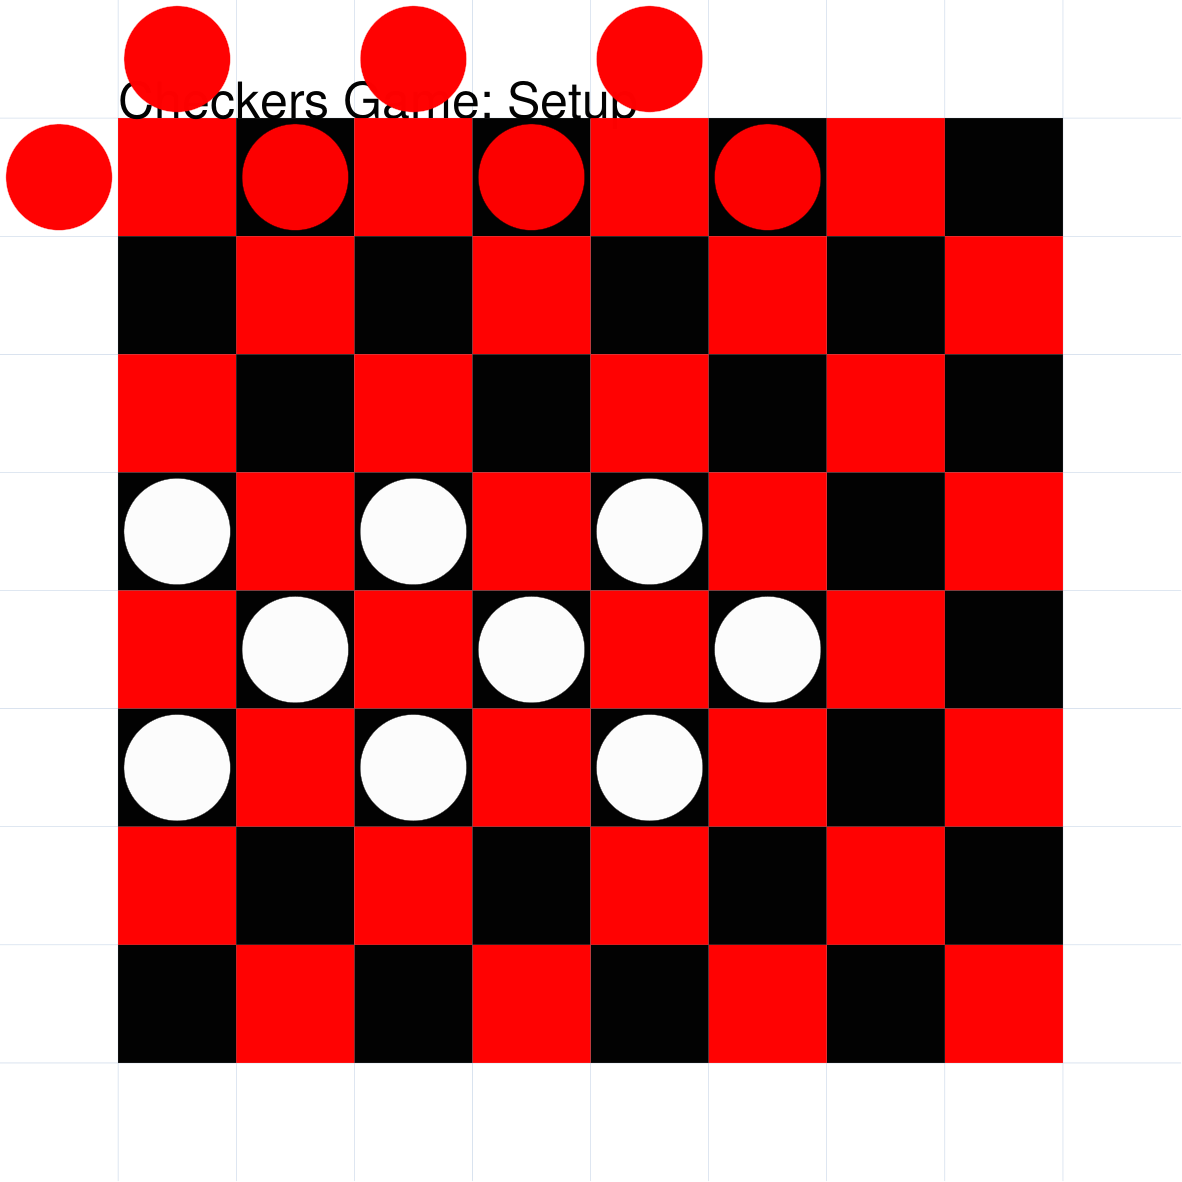
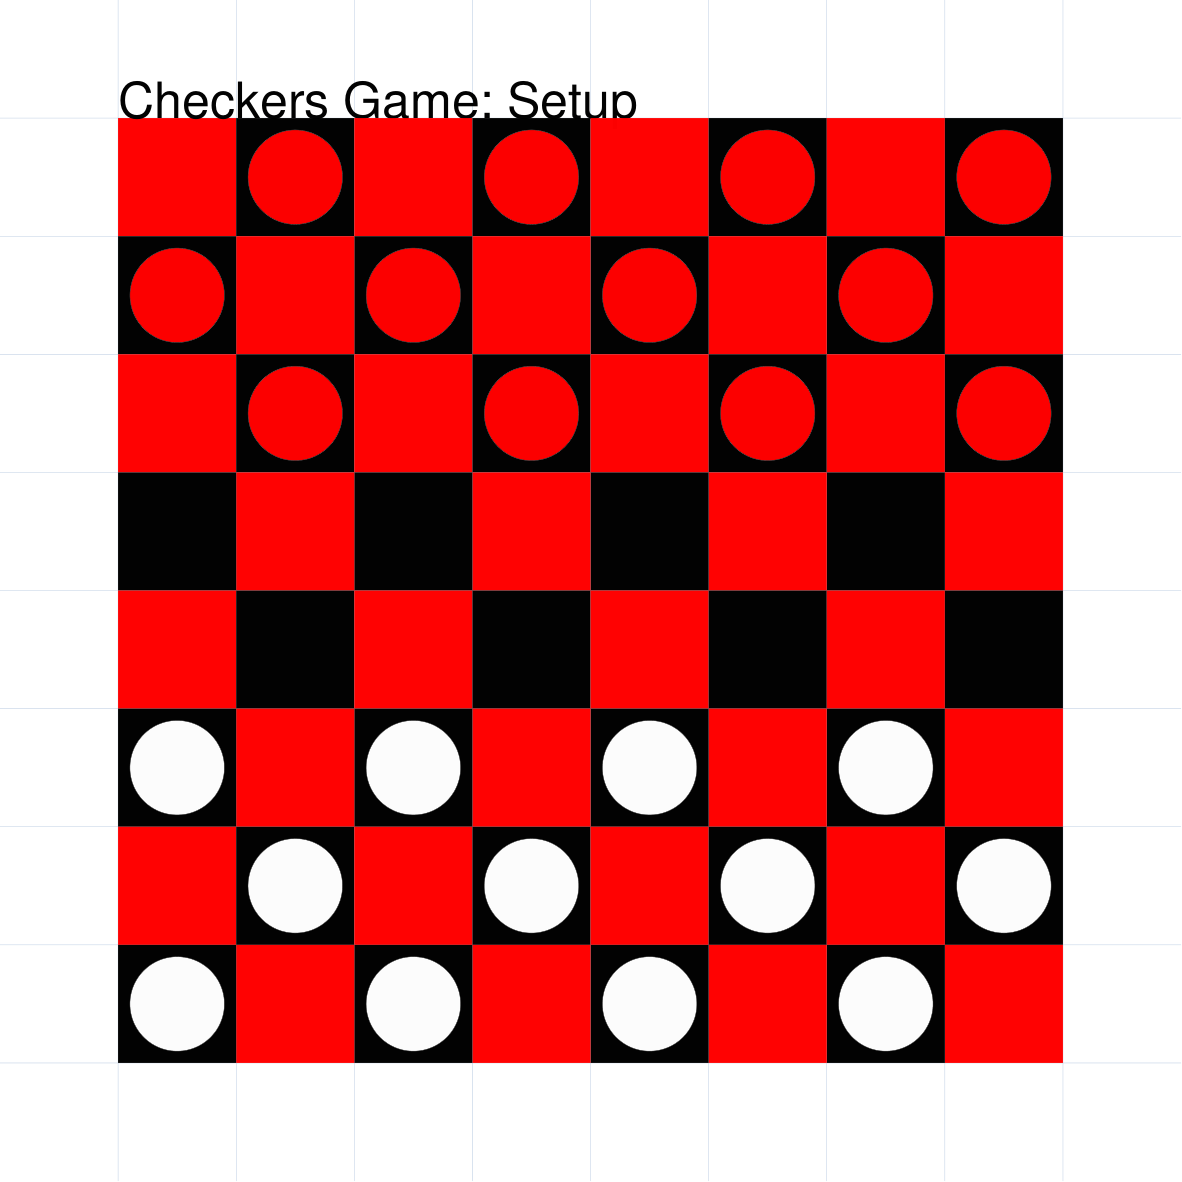
Updates for drawing Abstract checkers

diff --git a/protograf/objects/abstracts.py b/protograf/objects/abstracts.py
@@ -91,12 +91,13 @@ class AbstractGameObject(BaseShape):
             )
         self.set_options_by_game()
         # ---- check fills and colors
-        if len(self.fills) != len(self.strokes):
-            feedback(
-                "The AbstractGame 'fills' and 'strokes' properties must be of equal length",
-                True,
-                True,
-            )
+        if self.fills and self.strokes:
+            if len(self.fills) != len(self.strokes):
+                feedback(
+                    "The AbstractGame 'fills' and 'strokes' properties must be of equal length",
+                    True,
+                    True,
+                )
         # ---- setup pieces
         self.pieces = self.setup_pieces(self.pieces_type, user_pieces)
         # ---- setup board
@@ -321,13 +322,18 @@ class AbstractGameObject(BaseShape):
                     if self.areas:
                         pass
                     else:
+                        self.strokes = self.strokes if self.strokes else []
                         self.areas = []
                         for key, colr in enumerate(self.fills):
+                            try:
+                                stroke = self.strokes[key]
+                            except IndexError:
+                                stroke = "black"
                             self.areas.append(
                                 rectangle(
                                     height=self.cell_size,
                                     width=self.cell_size,
-                                    stroke=self.strokes[key],
+                                    stroke=stroke,
                                     fill=colr,
                                 )
                             )
@@ -404,7 +410,7 @@ class AbstractGameObject(BaseShape):
         kwargs = {}
         kwargs["height"] = self.cell_size
         kwargs["width"] = self.cell_size
-        kwargs["radius"] = self.cell_size / 2.0 * 0.9
+        kwargs["radius"] = self.cell_size / 2.0 * 0.8
         # ---- pre-defined piece types
         match pieces_type:
             case "checkers" | "draughts":
@@ -842,12 +848,13 @@ class AbstractStateObject(BaseShape):
         # print(f'&&& {self.position_matrix=}')
         for row_no, row in enumerate(self.position_matrix):
             for col_no, col in enumerate(row):
-                # print(f'&&& AbstractStateObject {row_no=},{col_no=} :', col)
+                # print(f'&&& AbstractState {row_no=},{col_no=} :', col)
                 if col == ".":
-                    # print(f'&&& AbstractStateObject {row_no=},{col_no=} : BLANK')
+                    # print(f'&&& AbstractState {row_no=},{col_no=} : BLANK')
                     continue  # no piece here; move along, move along
                 kwargs = {}
                 piece_shape = self.board.pieces.get(col, None)
+                # ---- NULL shape
                 if piece_shape is None:
                     feedback(
                         item=f"Unable to find the piece named '{col}'; "
@@ -856,8 +863,10 @@ class AbstractStateObject(BaseShape):
                         alert=True,
                         stop=True,
                     )
+
                 else:
                     cell = self.board.board_layout.cells.get((col_no + 1, row_no + 1))
+                    # ---- Image shape
                     if isinstance(piece_shape, ImageShape):
                         bbox = cell.bbox  # geo ~ user units ~ relative to margin
                         if bbox:
@@ -873,22 +882,23 @@ class AbstractStateObject(BaseShape):
                                 True,
                                 True,
                             )
+                    # ---- Other shape
                     elif isinstance(piece_shape, BaseShape):
                         cntr = cell.centre  # geo ~ user units ~ relative to margin
                         kwargs = {
-                            "_abs_cx": tools.unit(cntr.x - globals.margins.left),
-                            "_abs_cy": tools.unit(cntr.y - globals.margins.top),
+                            "_abs_cx": tools.unit(cntr.x + globals.margins.left),
+                            "_abs_cy": tools.unit(cntr.y + globals.margins.top),
                         }
                     else:
                         raise NotImplementedError(
                             f'Unable to draw a piece of type "{type(piece_shape)}"'
                         )
-                    # print(f'&&& AbstractStateObject {row_no=},{col_no=} :', type(piece_shape))
+                    # print(f'&&& AbstractState {row_no=},{col_no=} P:', type(piece_shape))
                     piece_shape.draw(**kwargs)
 
     def draw(self, cnv=None, off_x=0, off_y=0, ID=None, **kwargs):
         """Draw the AbstractStateObject on a given canvas."""
-        from protograf.protos import Layout, square, hexagon
+        from protograf.protos import Layout, hexagon
 
         kwargs = self.kwargs | kwargs
         cnv = cnv if cnv else globals.canvas  # a new Page/Shape may now exist

diff --git a/examples/objects/abstracts.py b/examples/objects/abstracts.py
@@ -17,7 +17,7 @@ Create(
 header = Common(x=0, y=0, font_size=12, align="left")
 
 # ---- default Abstract Game Grid
-Text("Default Abstract Game Board", common=header)
+Text("Abstract Game: Default Board", common=header)
 agd = AbstractGame()
 AbstractState(board=agd)
 PageBreak()
@@ -32,7 +32,7 @@ PageBreak()
 Text("Chess Game: Positions and Colors", common=header)
 agcp = AbstractGame(
     name="chess",
-    fills=("#EAD7B4", "#AC8764")  # browns
+    fills=("#EAD7B4", "#D18B47")  # browns
 )
 AbstractState(
     board=agcp,

diff --git a/protograf/protos/proto_layout.py b/protograf/protos/proto_layout.py
@@ -591,8 +591,8 @@ class LayoutGrid:
                         _abs_cx=cx, _abs_cy=cy, rotation=rotation, locale=_locale
                     )
                 shape_id += 1
-            if shape_id > len(shapes) - 1:
-                shape_id = 0  # reset and start again
+                if shape_id > len(shapes) - 1:
+                    shape_id = 0  # reset and start again
             # ---- display debug
             if self.do_debug and self._draw_grid:
                 match _lower(self.do_debug):

diff --git a/protograf/objects/abstracts_pieces.py b/protograf/objects/abstracts_pieces.py
@@ -134,7 +134,7 @@ def piece_shape(key: str, name: str = "", **kwargs) -> object:
         "W": circle(fill="white", stroke="black", **kwargs),
         # ---- checkers
         # colors contrast with black squares
-        "kR": circle(fill_stroke="red", **kwargs),
+        "kR": circle(fill="red", stroke="white", **kwargs),
         "kW": circle(fill_stroke="white", **kwargs),
         # ---- go
         "gB": image(files("protograf").joinpath(f"{RESOURCES}/go/black.png"), **kwargs),
